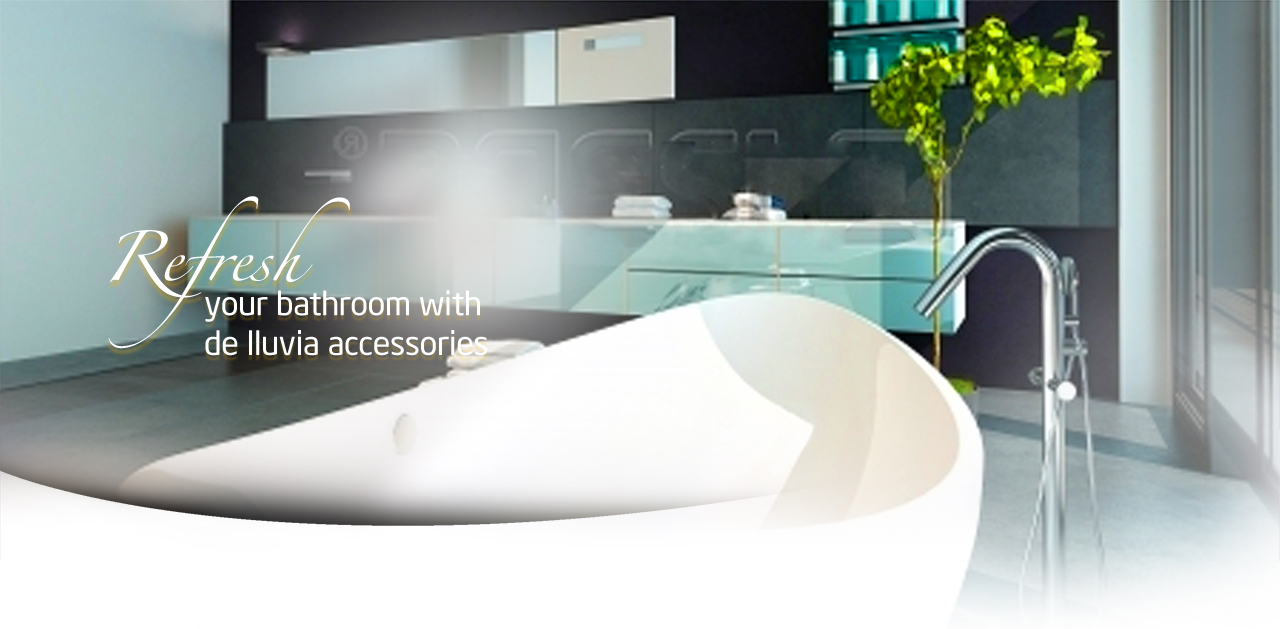
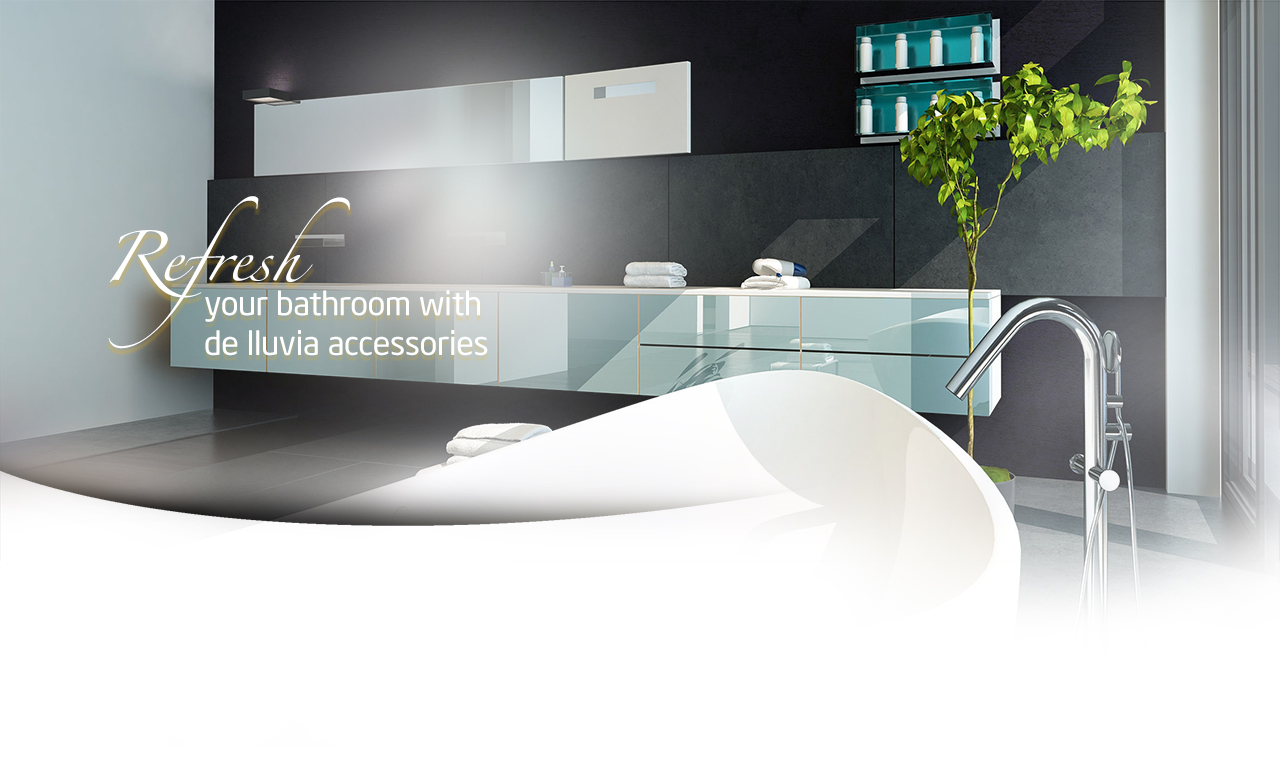
done

diff --git a/de-illunia/Homepage.html b/de-illunia/Homepage.html
@@ -326,8 +326,8 @@
 			<div id="slider">
 				<div class="owl-carousel">
 					<div><img src="tpl/client/res/images/banner/slider_Banner.jpg" alt="banner"/></div>
-					<div><img src="tpl/client/res/images/banner/slider_Banner.jpg" alt="banner"/></div>
-					<div><img src="tpl/client/res/images/banner/slider_Banner.jpg" alt="banner"/></div>
+					<div><img src="tpl/client/res/images/banner/slider_Banner_2.jpg" alt="banner"/></div>
+					<div><img src="tpl/client/res/images/banner/slider_Banner_3.jpg" alt="banner"/></div>
 				</div>
 			</div>
 		</div>
